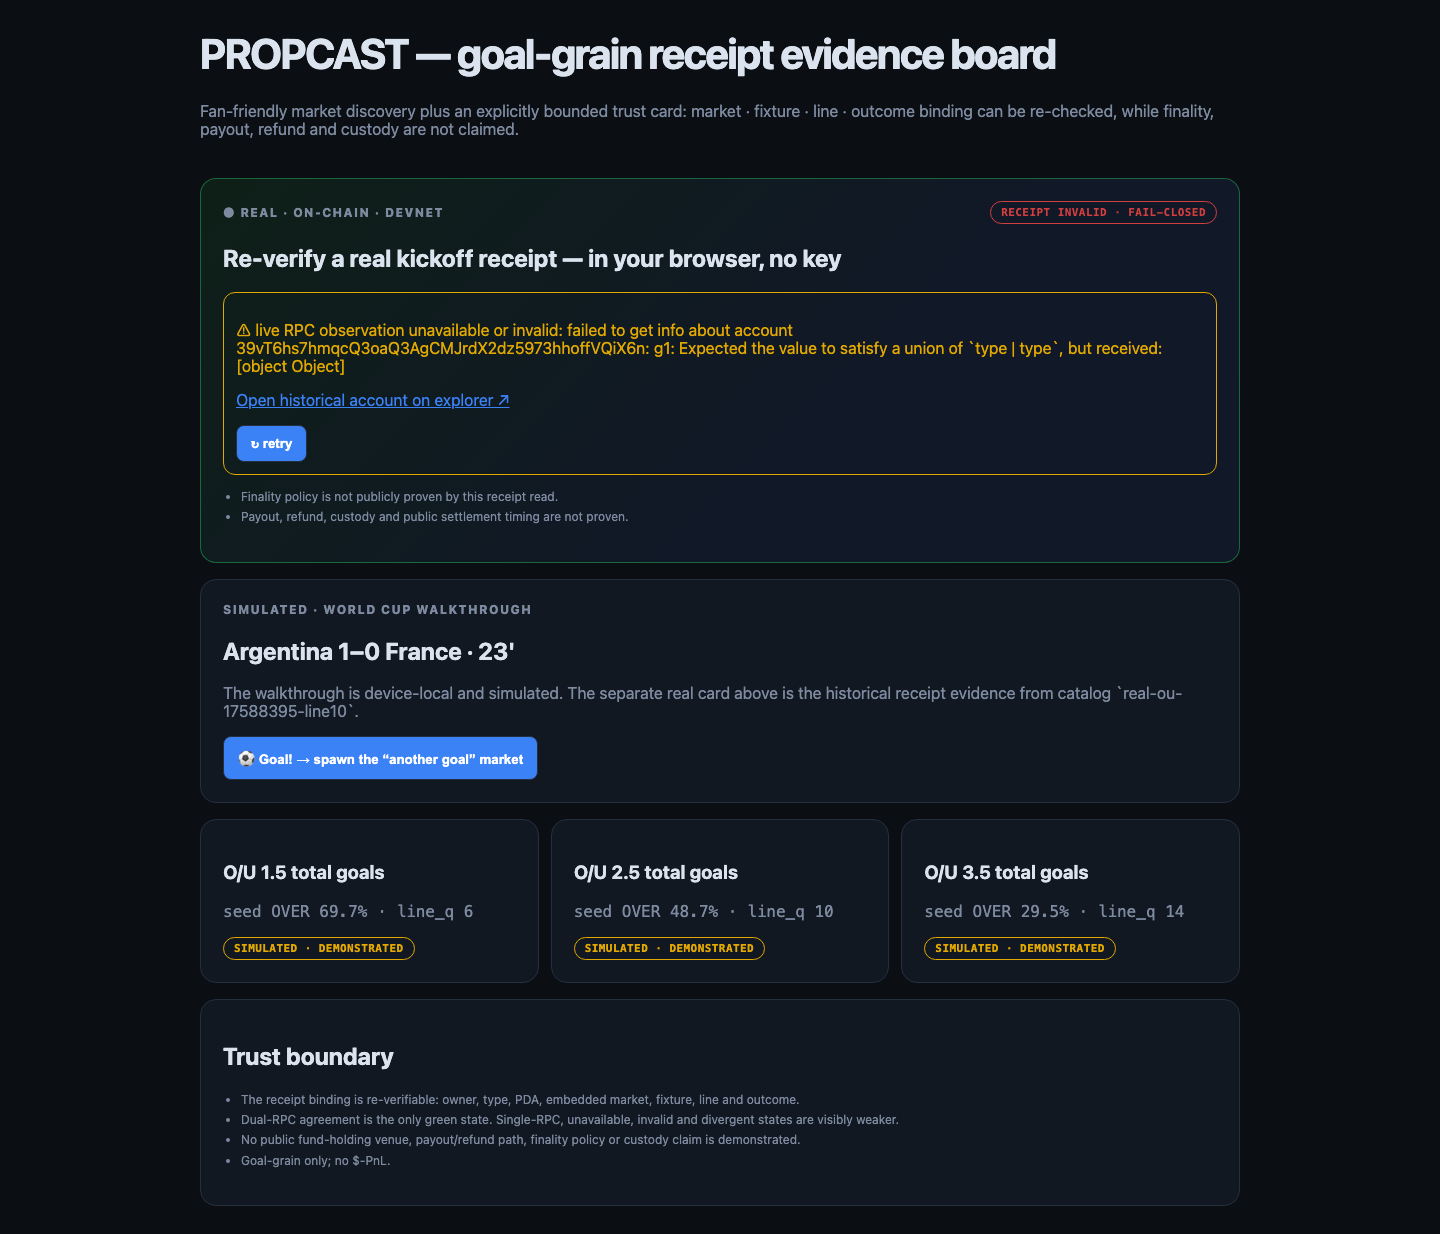
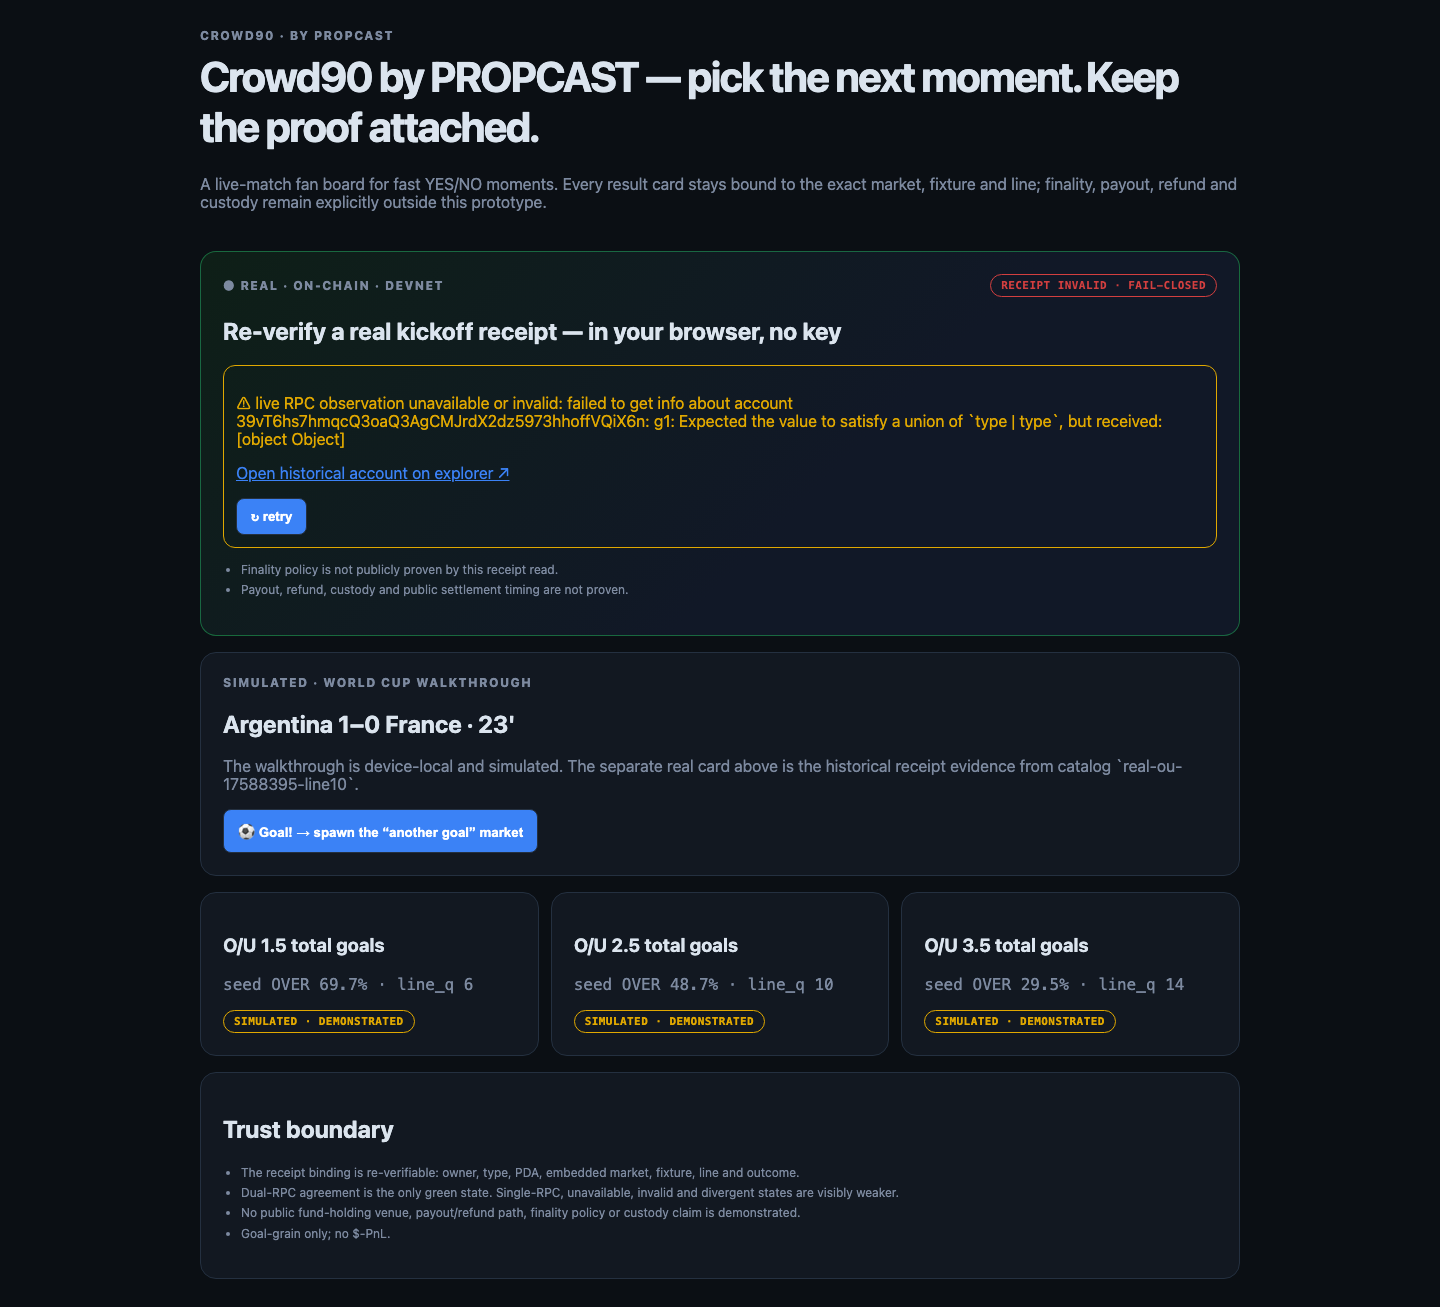
feat: package Crowd90 fan site for Vercel

diff --git a/ui/src/App.tsx b/ui/src/App.tsx
@@ -67,10 +67,11 @@ export function App() {
     <main className="app-shell">
       <div className="board">
         <section className="hero" aria-labelledby="propcast-title">
-          <h1 id="propcast-title">PROPCAST — goal-grain receipt evidence board</h1>
+          <div className="eyebrow">Crowd90 · by PROPCAST</div>
+          <h1 id="propcast-title">Crowd90 by PROPCAST — pick the next moment. Keep the proof attached.</h1>
           <p className="muted">
-            Fan-friendly market discovery plus an explicitly bounded trust card: market · fixture · line ·
-            outcome binding can be re-checked, while finality, payout, refund and custody are not claimed.
+            A live-match fan board for fast YES/NO moments. Every result card stays bound to the exact market,
+            fixture and line; finality, payout, refund and custody remain explicitly outside this prototype.
           </p>
           <div className="card-row">
             {demoSecs !== null && <span className="pill">● REPLAY {demoSecs}s</span>}

diff --git a/ui/index.html b/ui/index.html
@@ -3,7 +3,8 @@
   <head>
     <meta charset="UTF-8" />
     <meta name="viewport" content="width=device-width, initial-scale=1.0" />
-    <title>PROPCAST — live goal-grain micro-markets</title>
+    <meta name="description" content="Crowd90 is a live-match fan board whose result evidence stays attached to the exact fixture and line." />
+    <title>Crowd90 — pick the moment, keep the proof</title>
   </head>
   <body>
     <div id="root"></div>

diff --git a/README.md b/README.md
@@ -1,4 +1,23 @@
-# PROPCAST
+# Crowd90
+
+### Pick the next moment. Keep the proof attached.
+
+**Crowd90 is the public fan experience built by PROPCAST:** a responsive World Cup board for fast YES/NO match moments. When a result card appears, its evidence remains bound to the exact market, fixture and line instead of becoming an unexplained admin verdict.
+
+> **Try the product:** `npm run judge-demo`. The walkthrough is explicit about what is simulated and what comes from a historical devnet receipt. A hosted URL will be added after public deployment.
+
+| Fan experience | Trust experience |
+|---|---|
+| Discover a live match and choose a simple moment. | Every evidence state is named: simulated, verified, unavailable, invalid or divergent. |
+| Follow the market as the match changes. | A receipt for another fixture or line is rejected. |
+| Share a result and streak card. | Finality, custody and payout are never implied by a green binding check. |
+
+<details>
+<summary><strong>Technical scope and evidence boundaries</strong></summary>
+
+The implementation-level receipt contract and limitations follow.
+
+---
 
 **A goal-grain receipt-binding prototype** — re-check a real Merkle-anchored `kickoff_oracle` receipt in your
 browser, with no API key or wallet. It demonstrates immutable market/fixture/line binding; the private mint
@@ -38,3 +57,5 @@ binary. This is not a live venue-init proof, public video, public-repo access gu
 - receipt PDA scheme: `["ou_bound", market_id]` · `market_id = SHA-256(domain ‖ fixtureId ‖ kind ‖ nonce)`.
 
 Gate: `npm ci && npm --prefix ui ci && npm run judge-demo`.
+
+</details>